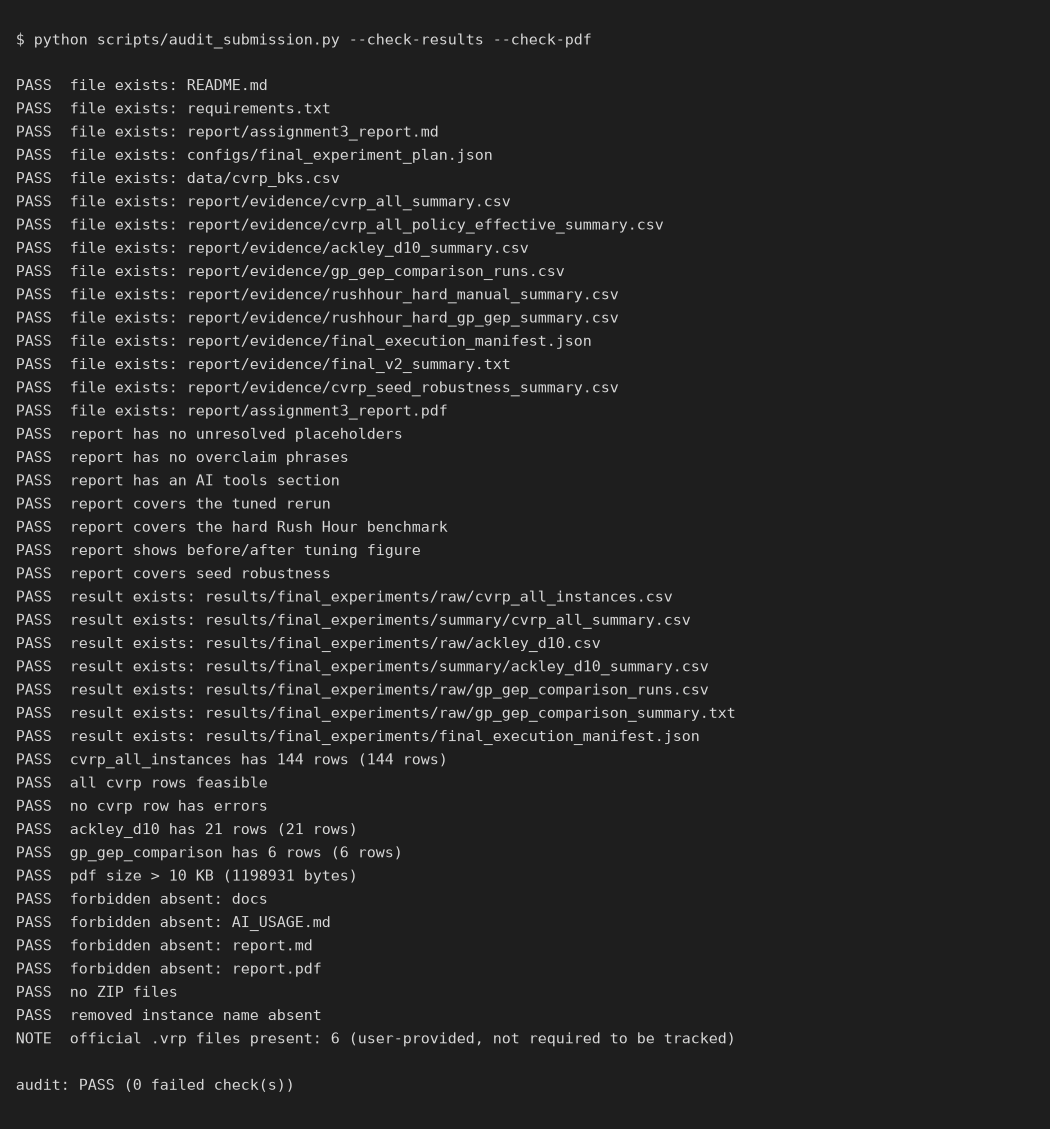
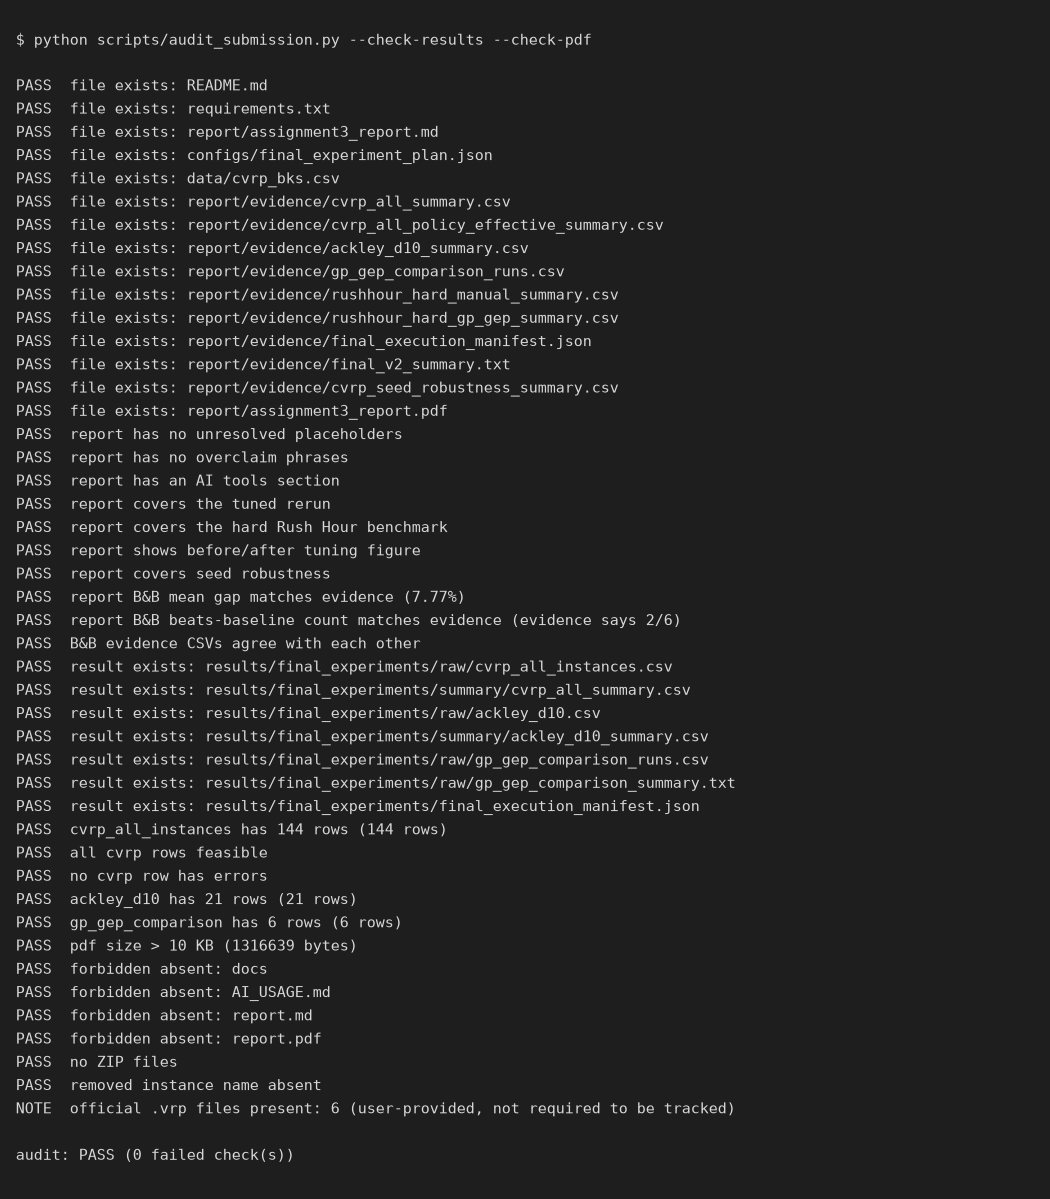
Fix BnB evidence consistency

diff --git a/scripts/audit_submission.py b/scripts/audit_submission.py
@@ -100,6 +100,34 @@ def main():
         check("report covers seed robustness",
               "cvrp_seed_gap_boxplots.png" in text)
 
+        # B&B/LDS report-vs-evidence consistency (added after Stage 10-H
+        # found the report ahead of the committed evidence)
+        mean_gaps_path = REPO_ROOT / "report" / "evidence" / "cvrp_algorithm_mean_gaps.csv"
+        all_summary_path = REPO_ROOT / "report" / "evidence" / "cvrp_all_summary.csv"
+        if mean_gaps_path.exists() and all_summary_path.exists():
+            by_algo = {r["algorithm"]: r for r in count_data_rows(mean_gaps_path)}
+            bnb = by_algo.get("cvrp_bnb_lds")
+            base = by_algo.get("baseline")
+            if bnb and base:
+                instances = [k for k in bnb
+                             if k not in ("algorithm", "mean_best_gap_percent")]
+                beats = sum(1 for i in instances
+                            if float(bnb[i]) < float(base[i]) - 1e-9)
+                # recompute the mean from the per-instance values so the
+                # 3-decimal stored field cannot cause a rounding mismatch
+                mean = sum(float(bnb[i]) for i in instances) / len(instances)
+                mean_text = f"{mean:.2f}%"
+                check("report B&B mean gap matches evidence",
+                      mean_text in text, mean_text)
+                check("report B&B beats-baseline count matches evidence",
+                      f"{beats}/6" in text, f"evidence says {beats}/6")
+                summary_bnb = {r["instance"]: float(r["best_gap_percent"])
+                               for r in count_data_rows(all_summary_path)
+                               if r["algorithm"] == "cvrp_bnb_lds"}
+                consistent = all(abs(summary_bnb[i] - float(bnb[i])) < 0.01
+                                 for i in instances if i in summary_bnb)
+                check("B&B evidence CSVs agree with each other", consistent)
+
     # result files and row counts
     if args.check_results:
         for rel in RESULT_FILES:

diff --git a/tests/test_final_evidence_and_visuals.py b/tests/test_final_evidence_and_visuals.py
@@ -94,3 +94,20 @@ def test_no_full_results_or_official_data_committed():
                    for p in tracked)
     assert not any(p.endswith(".vrp") and p.startswith("data/official_cvrp/")
                    for p in tracked)
+
+
+def test_bnb_report_claims_match_evidence():
+    # the report's B&B/LDS numbers must be backed by the committed evidence
+    import csv
+    text = REPORT_MD.read_text()
+    with open(EVIDENCE / "cvrp_algorithm_mean_gaps.csv", newline="") as f:
+        by_algo = {r["algorithm"]: r for r in csv.DictReader(f)}
+    bnb, base = by_algo["cvrp_bnb_lds"], by_algo["baseline"]
+    instances = [k for k in bnb if k not in ("algorithm", "mean_best_gap_percent")]
+    beats = sum(1 for i in instances if float(bnb[i]) < float(base[i]) - 1e-9)
+    mean = sum(float(bnb[i]) for i in instances) / len(instances)
+    assert f"{mean:.2f}%" in text
+    assert f"{beats}/6" in text
+    # the small-instance claims must be true in the evidence, not just prose
+    assert float(bnb["P-n16-k8"]) < 0.5
+    assert float(bnb["E-n22-k4"]) < 0.5